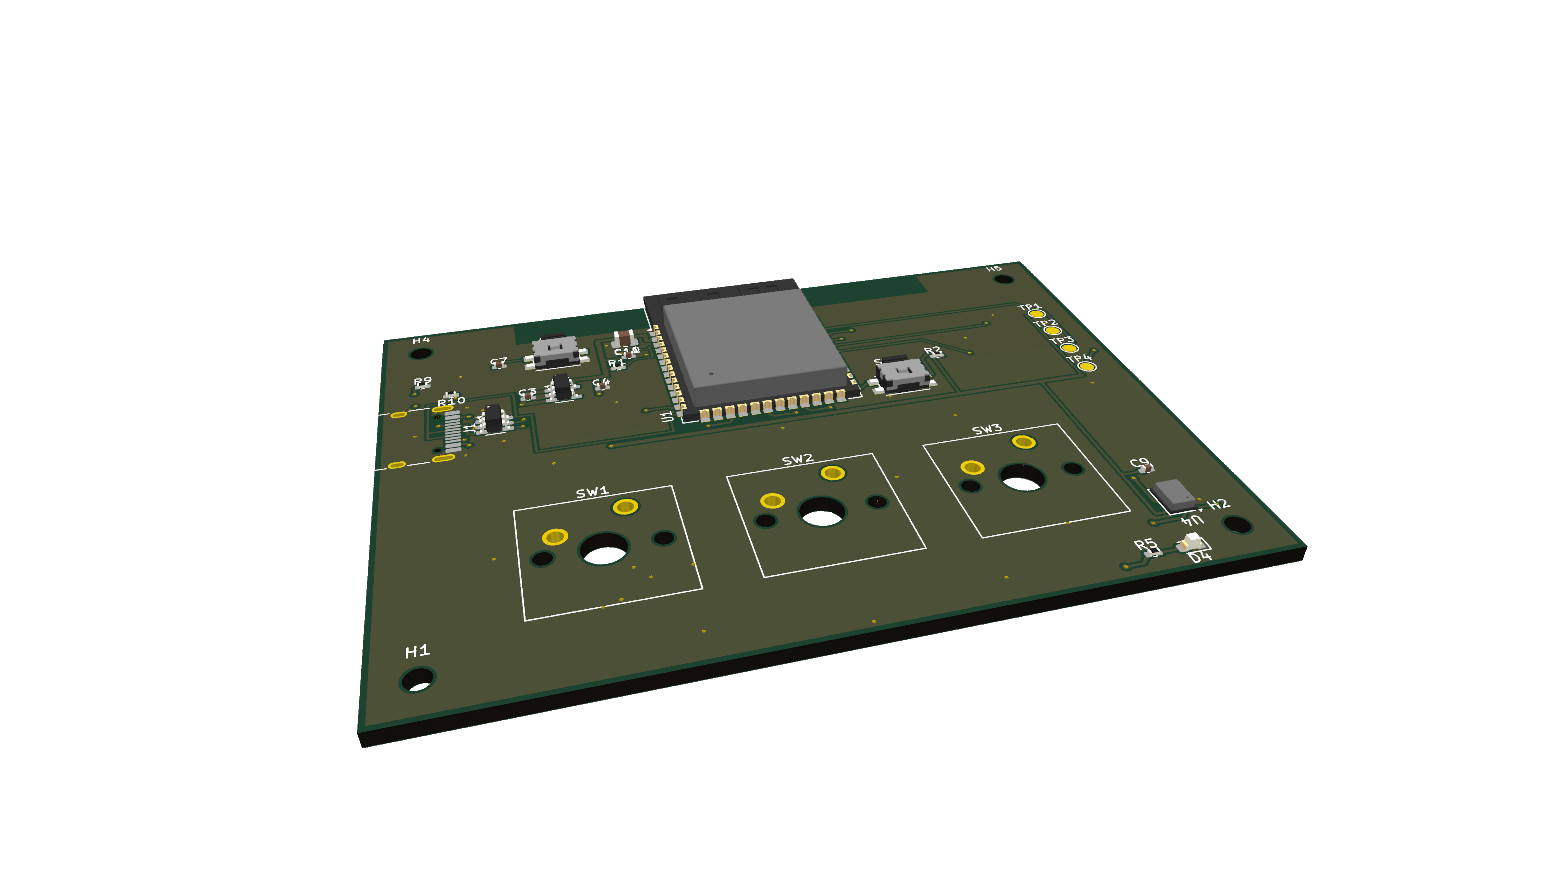
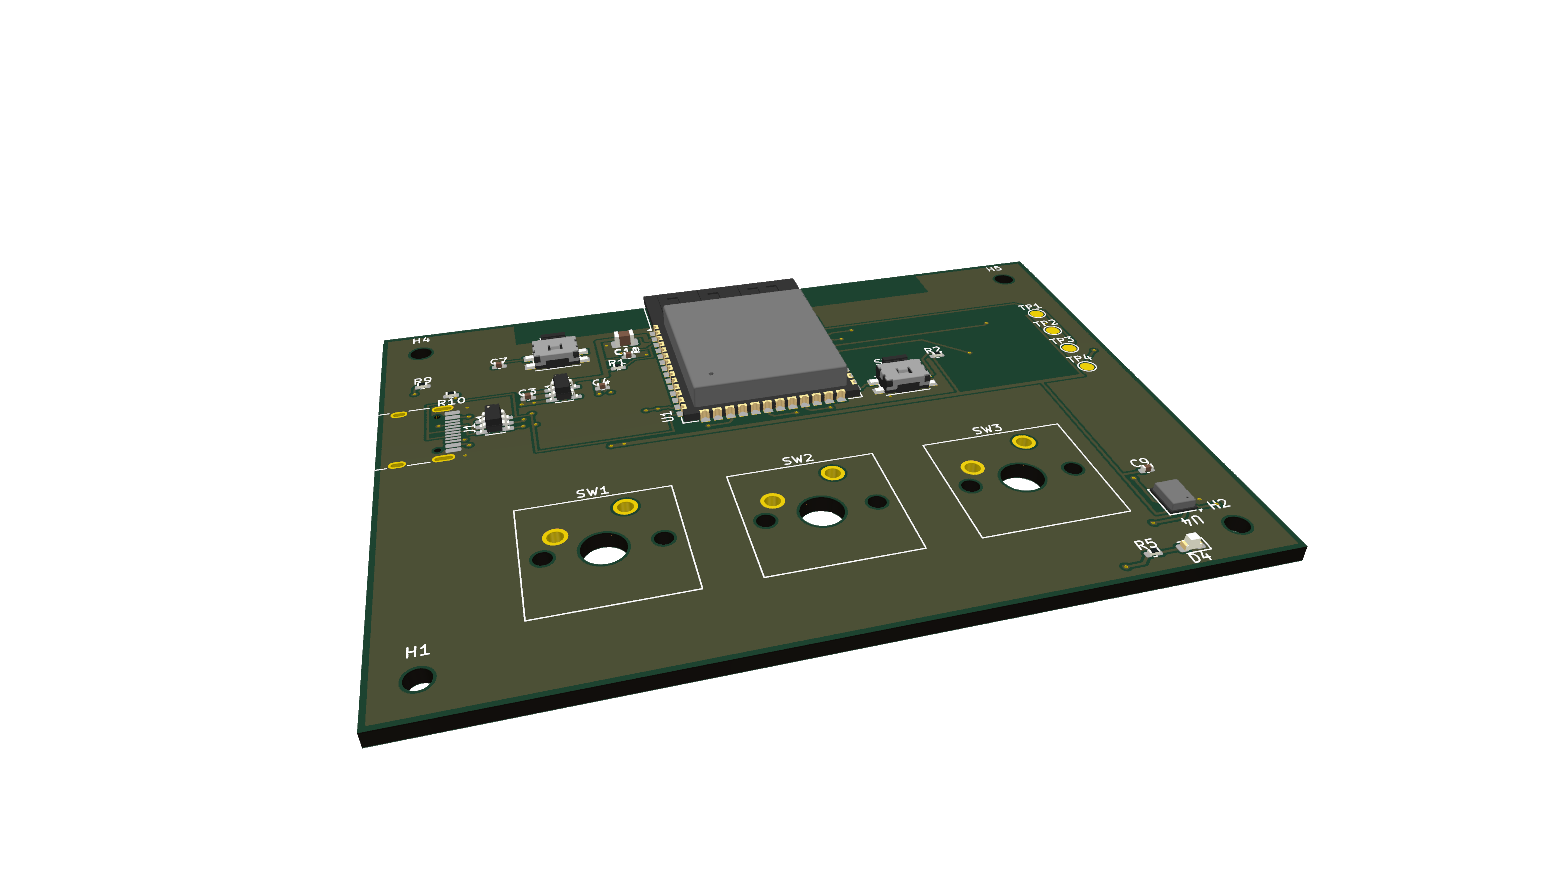
Measure the stitching vias instead of accumulating them: 27 -> 8
"Are all these vias doing something, or are they leftovers?" was the right
question. A leave-one-out sweep -- drop one via, refill the pours, re-run DRC,
keep the removal if the board still gates clean -- answered it: 25 of the 27
GND stitching vias were doing NOTHING. They were rescues added one at a time
against an earlier placement, and they survived into a layout where the
pockets they patched no longer exist.

DRC-minimal is not the design target though, so the board does not simply drop
to two. Stitching has a second job DRC never checks: a signal that changes
layer forces its return current to change layer too, and it can only do that
through a ground via near the transition. The board now carries:

  2 connectivity vias  -- the ones the sweep proved load-bearing
  6 return-path vias   -- one beside each layer change on the USB pair, the
                          VBUS entry and the V3V3 spine

Their positions were searched, not guessed: each was tried at several offsets
around its signal via and kept only where the board still gated clean (the
first attempt put three of them straight on top of the traces they were meant
to accompany).

Generalised into design-rules.md as a "stitching-via drift" finding with the
leave-one-out method, and written up in the example README. Renders and the
CHANGELOG updated.

Re-verified: route_fr.sh -> DRC 0 violations / 0 unconnected; 42 vias total,
9 on GND.

Changed region(s): [[0.5312, 0.3406, 0.6875, 0.4644]]

diff --git a/examples/mic-macropad/pcb/kicad/gen_pcb.py b/examples/mic-macropad/pcb/kicad/gen_pcb.py
@@ -336,9 +336,26 @@ via("GND", 32.8, -20.04)
 wire("GND", [("U4", 3), (29.84, -17.6)])
 via("GND", 29.84, -17.6)
 # stitching, plus two rescues for pockets the USB-area routing fences off
-for _gx, _gy in [(-22, 0.2), (12, -25), (29, 16), (0, -27), (-28, -12), (8, -10),
-                 (-12.9, -24.6), (-15.8, -17.5), (-17, -16), (20, -20),
-                 (-30, 18), (33, 0), (-18.5, -19.5), (-12.2, -16.9), (-34.5, 8), (-34.5, 13.5), (-15, 9), (17, -2), (-28, 11), (-26.3, 5), (12, 2.9), (0, 0.3), (24, 12), (-20, -20), (5, 12), (34, 12.7), (-28.85, 8)]:
+# ---- GND stitching -----------------------------------------------------------
+# Two jobs, and they are NOT the same job:
+#
+#   (a) connectivity -- tie pour regions the routing fences apart. Exactly two
+#       of these are load-bearing here, and that was MEASURED, not guessed: a
+#       leave-one-out sweep (remove a via, refill, re-run DRC) showed 25 of the
+#       27 vias this board used to carry were doing nothing at all. They were
+#       whack-a-mole leftovers from an earlier placement -- rescue vias for
+#       pockets that stopped existing when the parts moved.
+#
+#   (b) return path -- a signal that changes layer forces its return current to
+#       change layer too, and it can only do that through a nearby ground via.
+#       DRC never asks for these, so they must be placed on purpose. Here they
+#       accompany the USB pair's transitions (the fastest edges on the board)
+#       and the V3V3 spine's, ~1 mm off each signal via.
+_STITCH_CONNECTIVITY = [(12.0, 2.9), (34.0, 12.7)]
+_STITCH_RETURN = [(-23.15, 7.10), (-11.14, 6.77),   # USB_DM layer changes
+                  (-23.35, 9.15), (-23.00, 11.05),  # VBUS in/out of B.Cu
+                  (-15.28, 11.00), (-15.28, 1.60)]  # V3V3 spine transitions
+for _gx, _gy in _STITCH_CONNECTIVITY + _STITCH_RETURN:
     via("GND", _gx, _gy)
 
 # ---- save (zone fill happens in check.sh: ZONE_FILLER segfaults in headless

diff --git a/skills/vibe-pcb/references/design-rules.md b/skills/vibe-pcb/references/design-rules.md
@@ -49,6 +49,7 @@ module" is mechanical, not electrical, so it passes DRC even when violated. Run
 | **Belly short** | a flush-soldered module has exposed back-pads (thermal/JTAG/BAT/USB) that short to any carrier copper under its body | **no F.Cu and no vias under the module footprint**; route under-belly nets on **B.Cu**, keep front copper + vias in the margins; relocate passives out of the belly box. Put the keep-out box (x/y) in a comment in `gen_pcb.py`. |
 | **Value mismatch** | schematic vs PCB component values diverge as you edit two generators | keep `gen_sch.py` and `gen_pcb.py` values in lockstep; `cross_analysis` verifies |
 | **Silk DRC** | silk text too small / module ref-des & outline clipping pads or board edge | text height **≥ 0.8 mm**; module body outline on **F.Fab** (not silk); **hide model-only / placement refs**; keep silk off pads and the edge |
+| **Stitching-via drift** | vias added one at a time to chase pour islands, kept across a re-placement, until the board carries a constellation nobody can justify | **measure it**: leave-one-out (drop a via, refill, re-run DRC) separates load-bearing from leftover. On the worked example that was **25 of 27 doing nothing** — rescue vias for pockets that stopped existing when the parts moved. Then place a deliberate set: connectivity vias where the sweep says they are needed, plus **return-path** vias beside every signal via that changes layer (DRC never asks for those, so they only exist if you put them there on purpose) |
 | **Same-net pins split by a third** | two pins of one net on the same package side with a DIFFERENT net between them (an LDO's VIN+EN either side of GND is the classic) — the router wraps the far side of the part, threading the gap between the middle pad and the opposite pins at near-minimum clearance, and runs the input net alongside the output at the regulator's own pins | feed both pins from the incoming trace **on the near side** instead: surface the net at the outer pin's own height, one straight run past the part, tee off to the other pin. Put it in the locked skeleton — it is placement-dependent, and the router has no reason to prefer it |
 | **Courtyard-less land** | a hand-drawn or generated footprint with no F.CrtYd makes `courtyard_overlaps()` a **no-op** — the gate passes because there is nothing to intersect, and a part ends up under a connector or switch body | draw a courtyard in every `gen_footprints.py` land, and treat "part has no courtyard" as a gate failure, not a skip. A stock KiCad land is not automatically safe either: the Cherry MX courtyard is 13.29 mm across a **14 mm** housing, so leave margin near tall mechanical parts |
 | **Wire-length ≠ routability** | optimising a placement for total wire length and watching routing get *worse* | measured on a 37-part board: 1292 mm → 591 mm of wire took unroutable traces from 14 to **22**, because packing removes the channels the router needs. Score placements on the **router's actual output**; keep `hpwl` as a regression tracker, not a target. Clearance is the lever with a real optimum (0.5/2/3.5/5/6.5 mm → 22/18/12/12/33 failures on that board) |

diff --git a/examples/mic-macropad/README.md b/examples/mic-macropad/README.md
@@ -87,6 +87,23 @@ signals. Two reasons this shape is worth copying:
 The gate is KiCad's DRC, never freerouting's own violation count — the two
 disagree, and only one of them ships boards.
 
+### Stitching vias, measured rather than accumulated
+
+An earlier revision carried 27 GND stitching vias, added one at a time to
+chase pour islands and kept through a re-placement. A leave-one-out sweep
+(drop a via, refill, re-run DRC) found **25 of them were doing nothing** —
+rescues for pockets that stopped existing when the parts moved. The board now
+carries a set with a reason behind each one:
+
+- **2 connectivity vias** — the ones the sweep proved load-bearing.
+- **6 return-path vias** — one beside each layer change on the USB pair, the
+  VBUS entry and the V3V3 spine. A signal that changes layer forces its return
+  current to change layer too, and it can only do that through a nearby ground
+  via. DRC never asks for these; they exist only because someone placed them.
+
+Their positions were searched rather than guessed: each candidate was tried at
+several offsets and kept only where the board still gated clean.
+
 ## What the vendor references corrected
 
 The design existed first as a browser-side sketch with hand-drawn footprints.

diff --git a/CHANGELOG.md b/CHANGELOG.md
@@ -19,6 +19,12 @@ Notable changes to vibe-hardware. Format follows
   reports a fenced-off pour as one cryptic `Zone <-> Zone` line pointing at the board
   corner; this prints every island with the pads and vias of that net inside it, so the
   fix is a coordinate you can read off. `--strict` exits 1 on an orphan.
+- **`vibe-pcb/references/design-rules.md`** — a **stitching-via drift** finding: vias added
+  one at a time to chase pour islands survive a re-placement and become a constellation
+  nobody can justify. Measure with leave-one-out (drop a via, refill, re-run DRC) — on the
+  worked example 25 of 27 were doing nothing — then place a deliberate set: connectivity
+  vias where the sweep says, plus **return-path** vias beside every signal via that changes
+  layer, which DRC never asks for.
 - **`vibe-pcb/references/design-rules.md`** — a **same-net pins split by a third** finding:
   two pins of one net on the same package side with a different net between them (an LDO's
   VIN + EN either side of GND) makes the router wrap the far side of the part at
